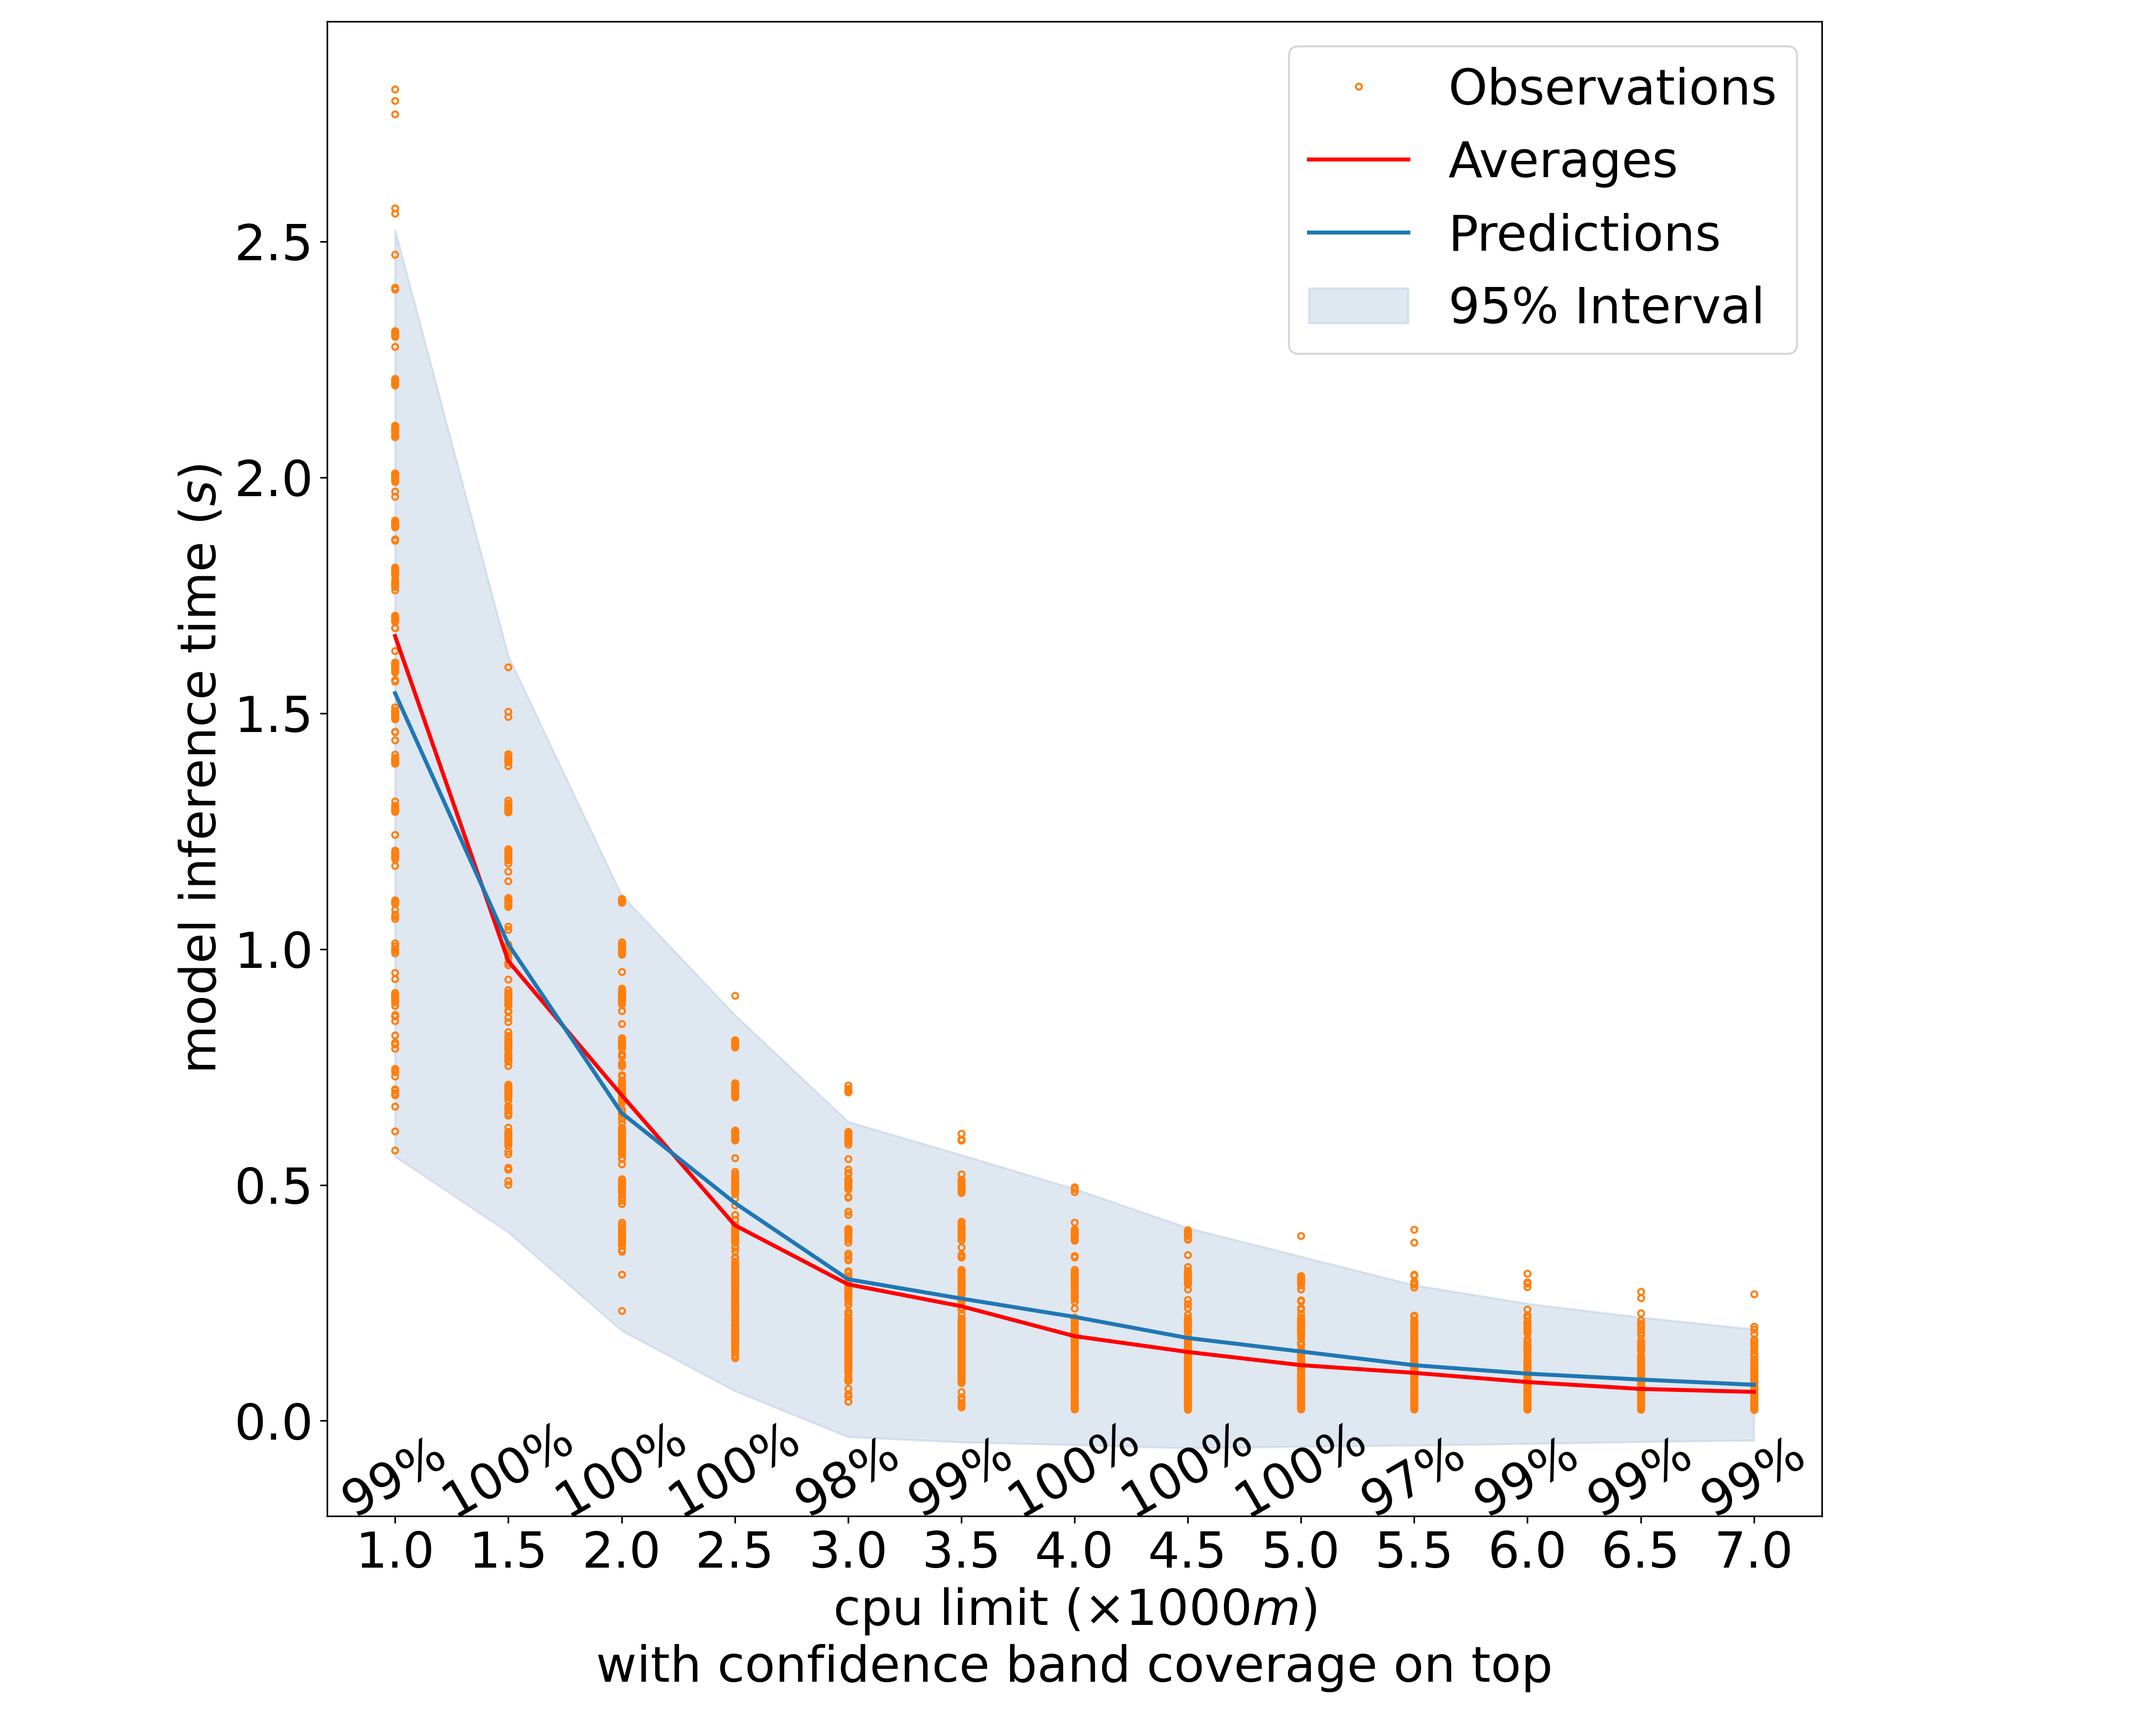
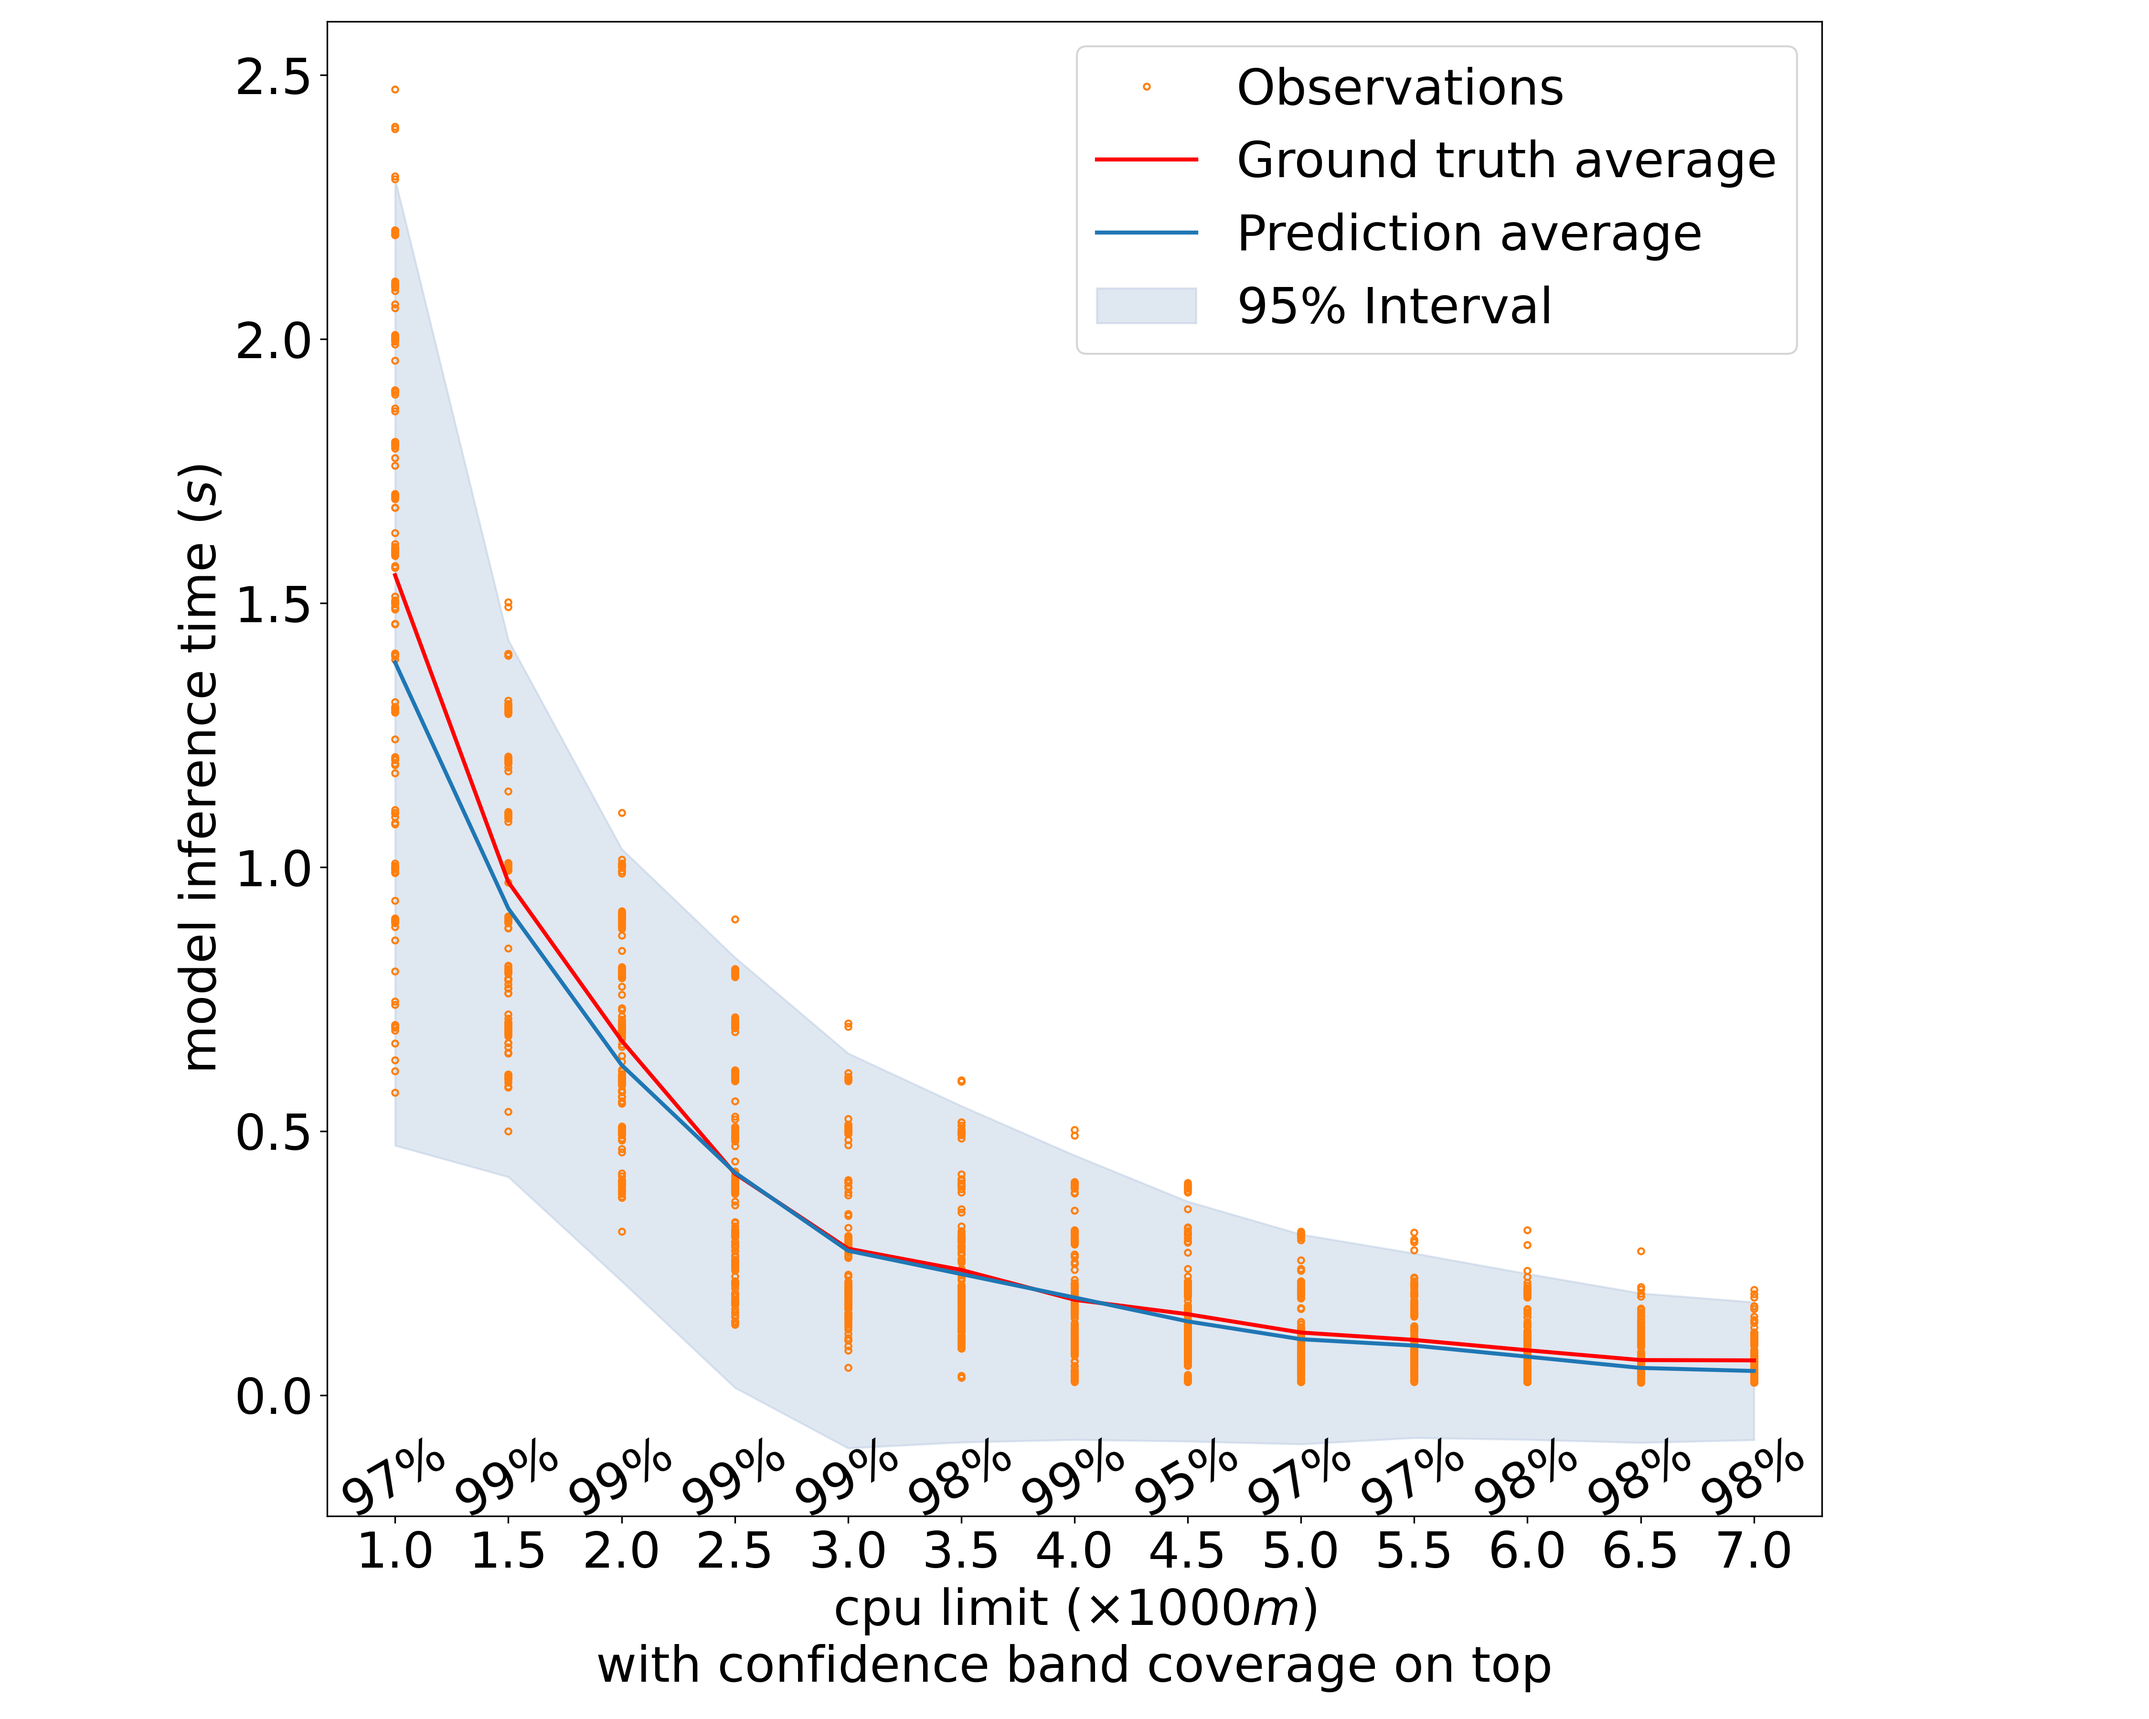
update with even-splitt test-training set

diff --git a/docs/pnn_models.html b/docs/pnn_models.html
@@ -91,8 +91,8 @@
                     <div class="row gx-5 align-items-center">
                         <div class="col-lg-6"><img class="img-fluid rounded mb-5 mb-lg-0" src="assets/Confidence Band for num_clients=1.0 gpu_instance=0.0 gpu_memory=0.0.png" alt="..." /></div>
                         <div class="col-lg-6">
-                            <h2 class="fw-bolder">Model inference time for various CPU limits, 1 clients, without GPU.</h2>
-                            <p class="lead fw-normal text-muted mb-0">Coverage: 0.9925213675213675</p>
+                            <h2 class="fw-bolder">Model inference time for various CPU limits, 1 clients.</h2>
+                            <p class="lead fw-normal text-muted mb-0">Coverage: 0.9850889834442464</p>
                         </div>
                     </div>
                 </div>
@@ -103,8 +103,8 @@
                     <div class="row gx-5 align-items-center">
                         <div class="col-lg-6 order-first order-lg-last"><img class="img-fluid rounded mb-5 mb-lg-0" src="assets/Confidence Band for num_clients=2.0 gpu_instance=0.0 gpu_memory=0.0.png" alt="..." /></div>
                         <div class="col-lg-6">
-                            <h2 class="fw-bolder">Model inference time for various CPU limits, 2 clients, without GPU.</h2>
-                            <p class="lead fw-normal text-muted mb-0">Coverage:  0.9887820512820512</p>
+                            <h2 class="fw-bolder">Model inference time for various CPU limits, 2 clients.</h2>
+                            <p class="lead fw-normal text-muted mb-0">Coverage:  0.9784145580671055</p>
                         </div>
                     </div>
                 </div>
@@ -115,8 +115,8 @@
                     <div class="row gx-5 align-items-center">
                         <div class="col-lg-6"><img class="img-fluid rounded mb-5 mb-lg-0" src="assets/Confidence Band for num_clients=3.0 gpu_instance=0.0 gpu_memory=0.0.png" alt="..." /></div>
                         <div class="col-lg-6">
-                            <h2 class="fw-bolder">Model inference time for various CPU limits, 3 clients, without GPU.</h2>
-                            <p class="lead fw-normal text-muted mb-0">Coverage: 0.9893874643874644</p>
+                            <h2 class="fw-bolder">Model inference time for various CPU limits, 3 clients.</h2>
+                            <p class="lead fw-normal text-muted mb-0">Coverage: 0.9817625884270647</p>
                         </div>
                     </div>
                 </div>
@@ -127,8 +127,8 @@
                     <div class="row gx-5 align-items-center">
                         <div class="col-lg-6 order-first order-lg-last"><img class="img-fluid rounded mb-5 mb-lg-0" src="assets/Confidence Band for num_clients=4.0 gpu_instance=0.0 gpu_memory=0.0.png" alt="..." /></div>
                         <div class="col-lg-6">
-                            <h2 class="fw-bolder">Model inference time for various CPU limits, 4 clients, without GPU.</h2>
-                            <p class="lead fw-normal text-muted mb-0">Coverage: 0.9954594017094018</p>
+                            <h2 class="fw-bolder">Model inference time for various CPU limits, 4 clients.</h2>
+                            <p class="lead fw-normal text-muted mb-0">Coverage: 0.9850737962542044</p>
                         </div>
                     </div>
                 </div>
@@ -139,14 +139,14 @@
                     <div class="row gx-5 align-items-center">
                         <div class="col-lg-6"><img class="img-fluid rounded mb-5 mb-lg-0" src="assets/Confidence Band for num_clients=5.0 gpu_instance=0.0 gpu_memory=0.0.png" alt="..." /></div>
                         <div class="col-lg-6">
-                            <h2 class="fw-bolder">Model inference time for various CPU limits, 5 clients, without GPU.</h2>
-                            <p class="lead fw-normal text-muted mb-0">Coverage: 0.9914529914529916</p>
+                            <h2 class="fw-bolder">Model inference time for various CPU limits, 5 clients.</h2>
+                            <p class="lead fw-normal text-muted mb-0">Coverage: 0.9798594725424478</p>
                         </div>
                     </div>
                 </div>
             </section>
             <!-- About section six-->
-            <section class="py-5">
+            <!-- <section class="py-5">
                 <div class="container px-5 my-5">
                     <div class="row gx-5 align-items-center">
                         <div class="col-lg-6 order-first order-lg-last"><img class="img-fluid rounded mb-5 mb-lg-0" src="assets/Confidence Band for num_clients=5.0 gpu_instance=3.0 gpu_memory=20.0.png" alt="..." /></div>
@@ -157,7 +157,7 @@
                         </div>
                     </div>
                 </div>
-            </section>  
+            </section>   -->
         </main>
         <!-- Footer-->
         <footer class="bg-dark py-4 mt-auto">
